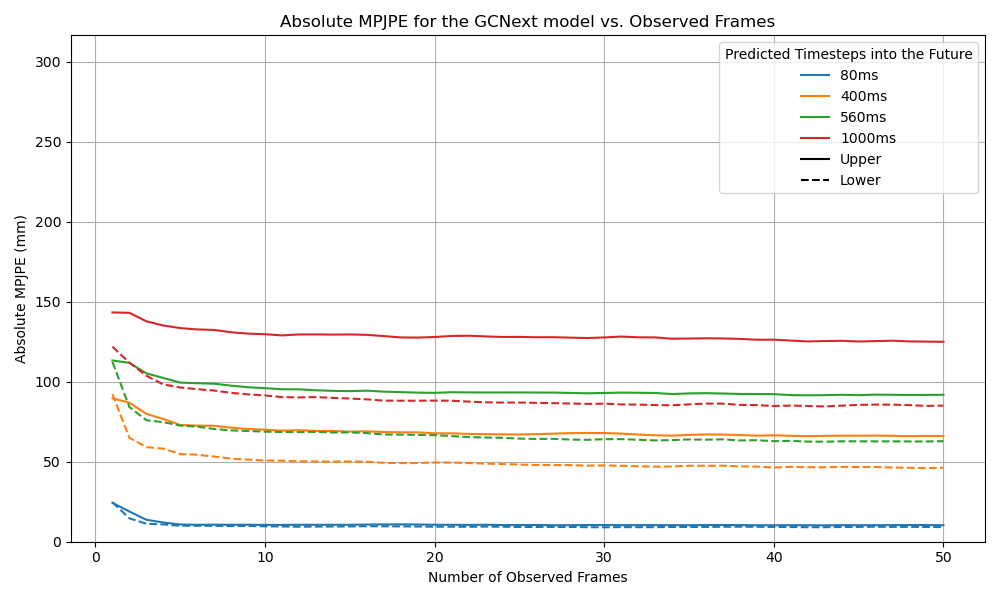
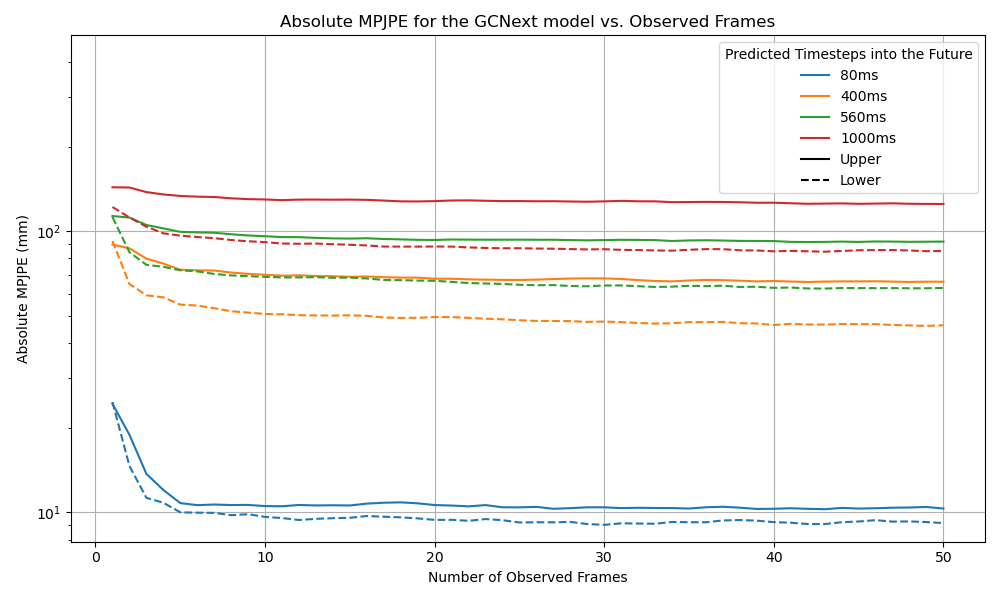
Attempt logarithmic scale

diff --git a/exps/run/eval_upper_lower.py b/exps/run/eval_upper_lower.py
@@ -54,6 +54,7 @@ def plot_and_save(upper_data, lower_data, model_name, branch, x_vals, colors, y_
     )
     plt.grid(True)
     plt.tight_layout()
+    plt.yscale('log')
     if y_limits is not None:
         plt.ylim(y_limits)
     save_name = f"mpjpe_{model_name.lower()}_{branch.lower()}_upper_lower.png"
@@ -140,8 +141,8 @@ all_arrays = [
     upper_gcn, lower_gcn
 ]
 all_data = np.concatenate([arr.flatten() for arr in all_arrays if arr is not None])
-y_min = 0
-y_max = np.percentile(all_data, 99.5)
+y_min = +0
+y_max = np.percentile(all_data, 100)
 y_limits = (y_min, y_max)
 
 plot_and_save(upper_data, lower_data, "PhysMoP", "Data", x_vals, colors, y_limits)
